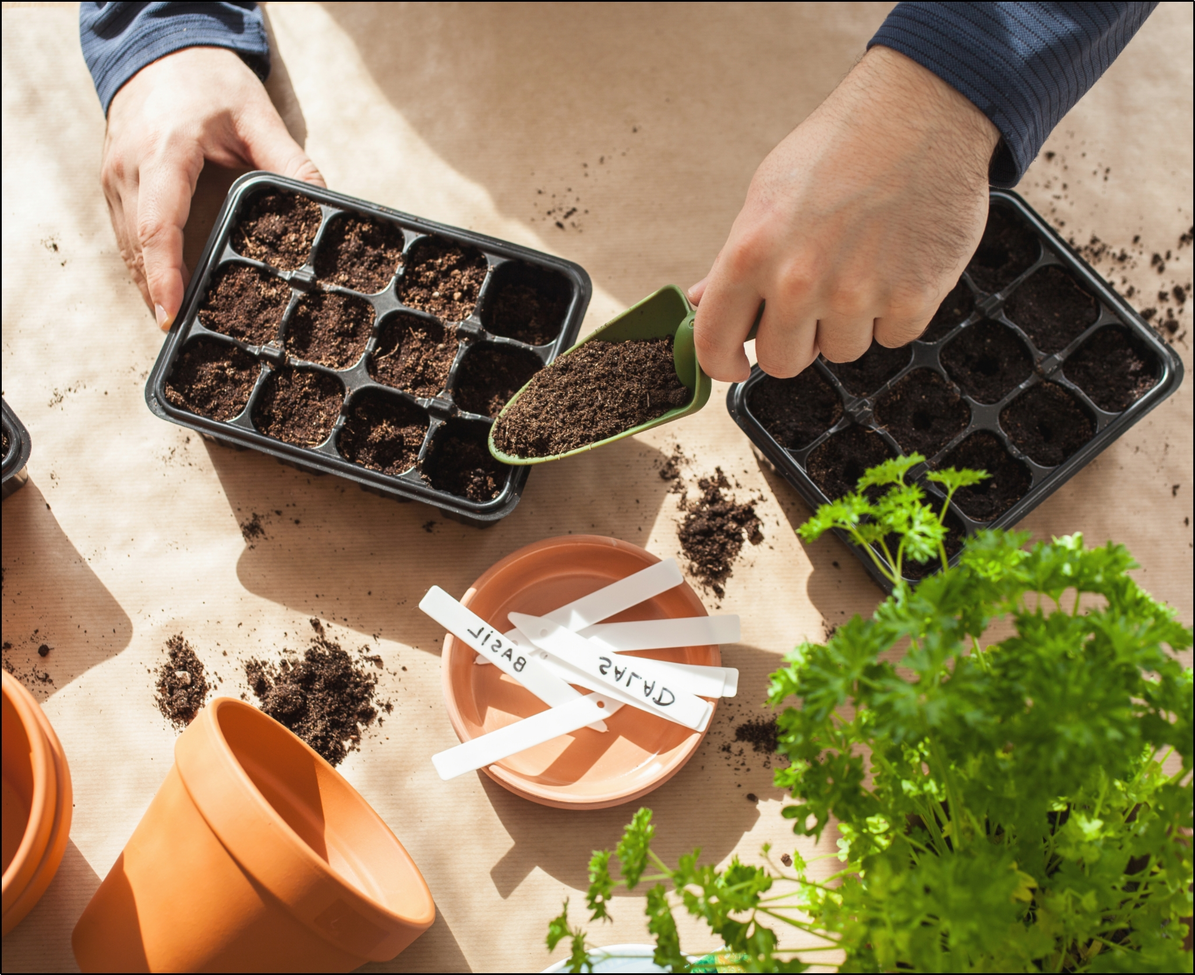
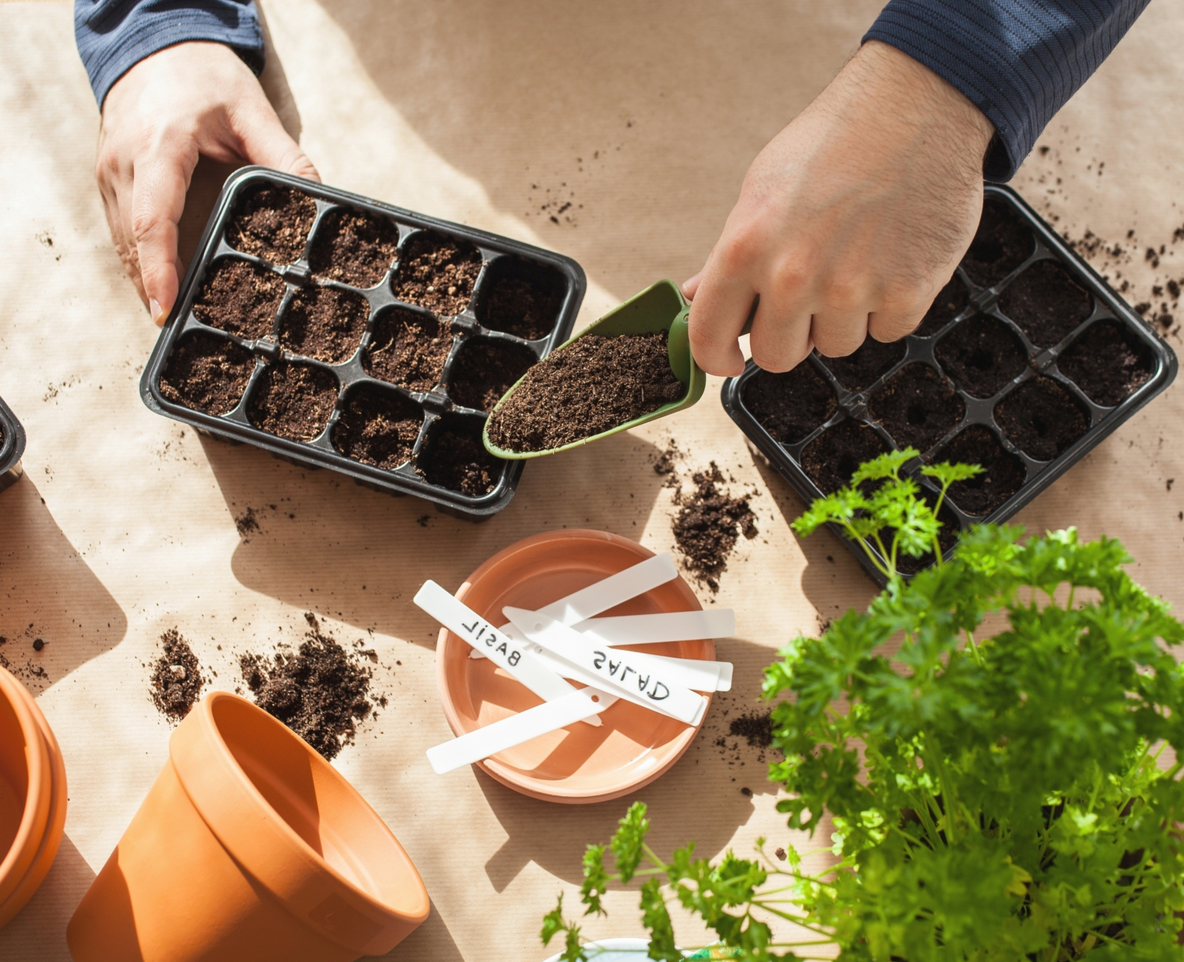
fix : img aboutus and banner2

diff --git a/src/blocks/svg-sprites/symbol/sprite.symbol.html b/src/blocks/svg-sprites/symbol/sprite.symbol.html
@@ -747,7 +747,7 @@ SVG sprite. They may be styled via CSS. (IE 9-11 with polyfill only)
 
 		</section>
 		<footer>
-			<p>Generated at Sat, 26 Oct 2024 06:31:22 GMT by <a href="https://github.com/svg-sprite/svg-sprite" target="_blank" rel="noopener noreferrer">svg-sprite</a>.</p>
+			<p>Generated at Sat, 07 Dec 2024 01:17:00 GMT by <a href="https://github.com/svg-sprite/svg-sprite" target="_blank" rel="noopener noreferrer">svg-sprite</a>.</p>
 		</footer>
 	</body>
 </html>

diff --git a/src/blocks/banner/_banner.scss b/src/blocks/banner/_banner.scss
@@ -98,7 +98,7 @@
         min-width: 800px;
         max-width: 80vh;
 
-        background-position: center;
+        background-position: top center;
         background-size: cover;
         border-radius: 40% 0px 40% 0px / 40% 0px 40% 0px;
 
